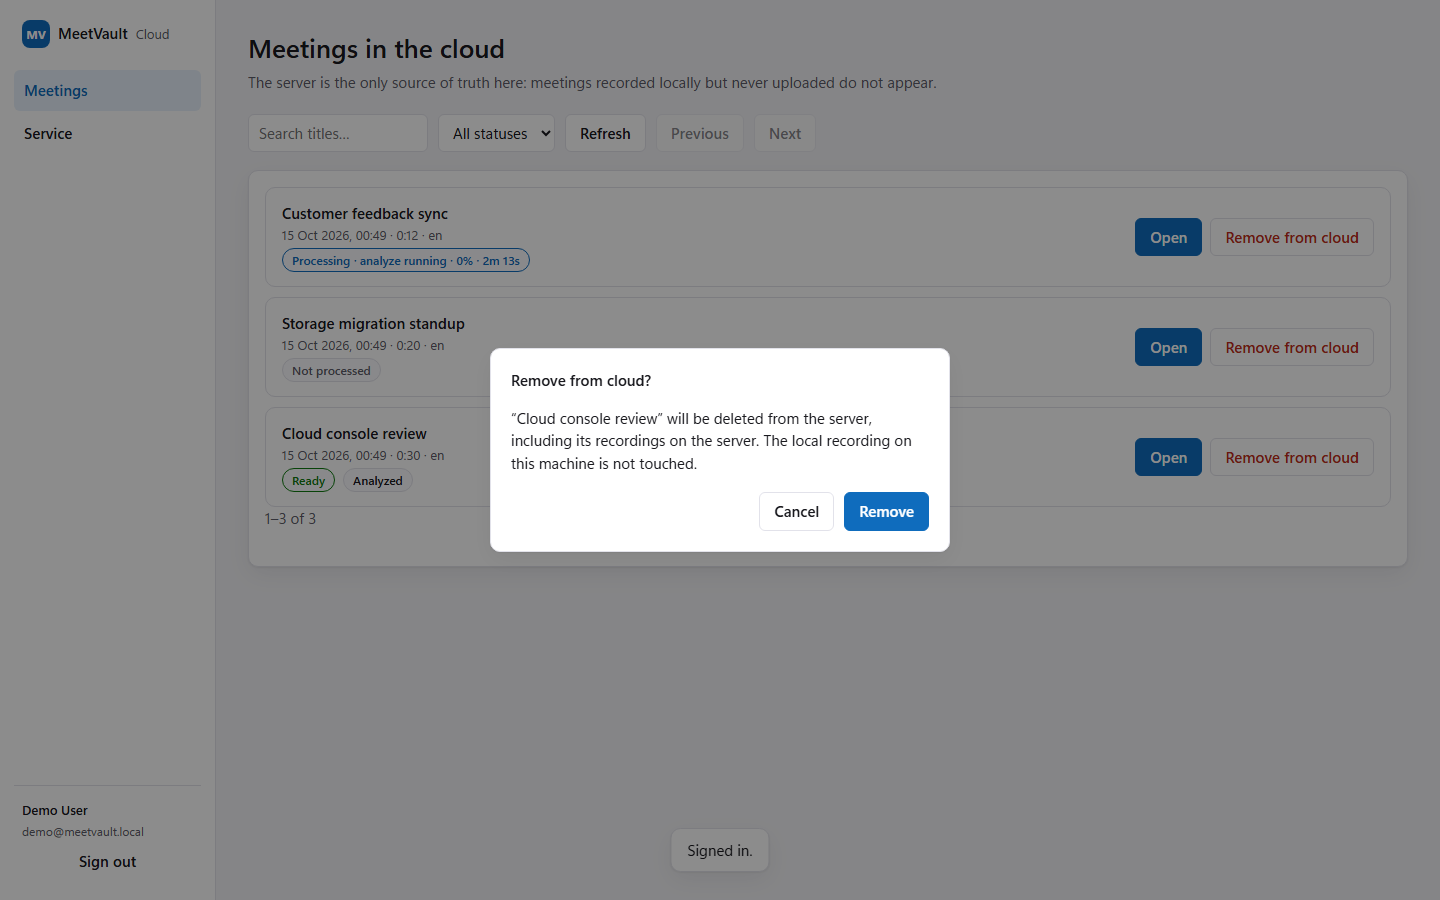
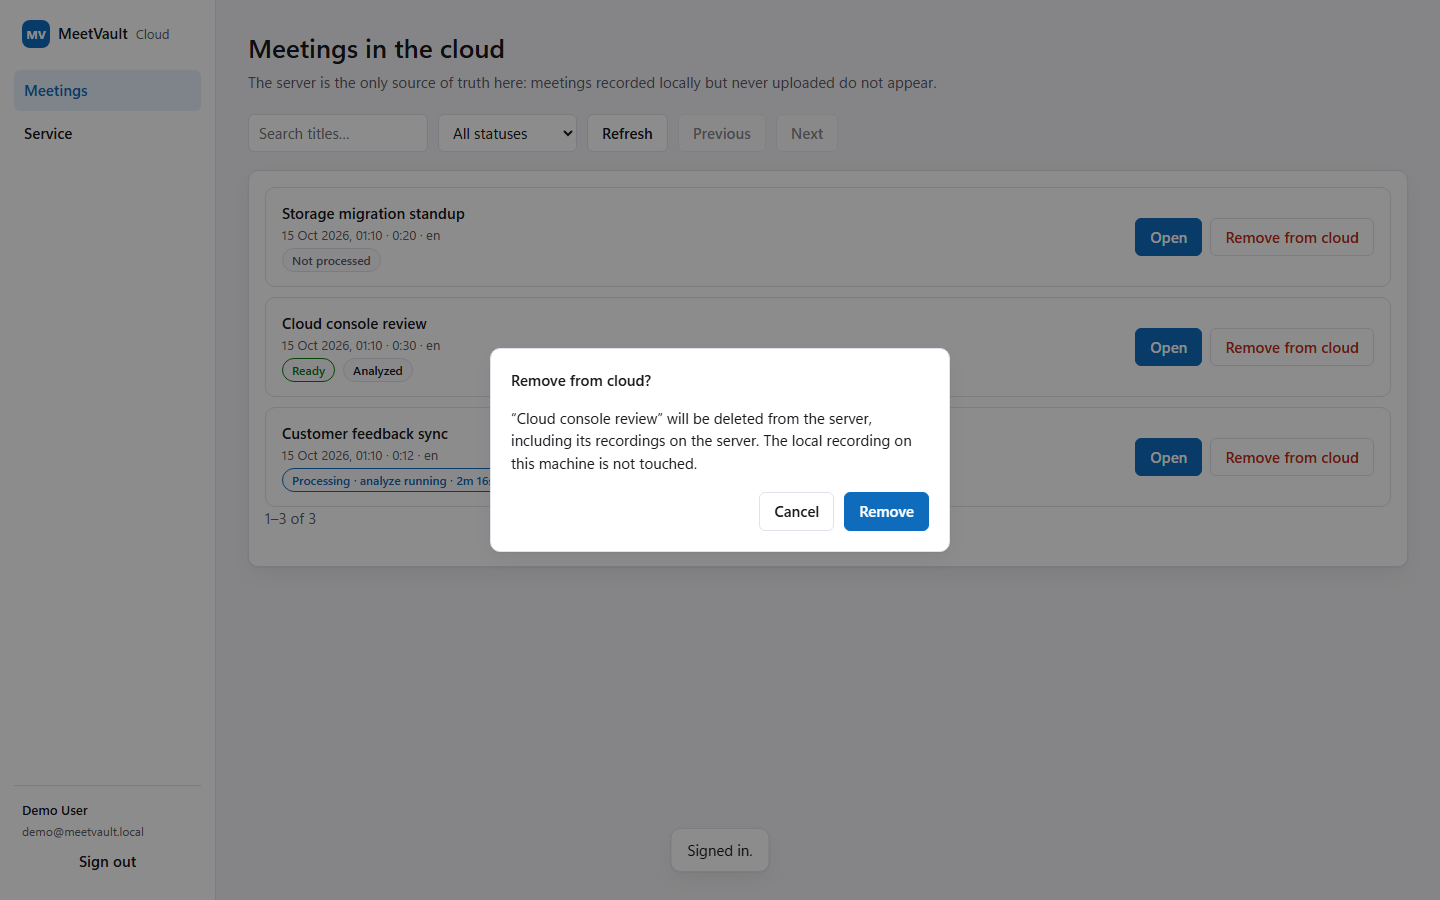
docs(web): the cloud-storage UI audit — three defects, measured before/after

diff --git a/backend/docs/web-report/REPORT.md b/backend/docs/web-report/REPORT.md
@@ -71,8 +71,8 @@ Production is the same image: `docker compose up -d --build` (or the deployed st
 | `screens/09-versions.png` | Versions tab: both transcript versions, the active one marked, activate/delete |
 | `screens/10-jobs.png` | Jobs tab: the pipeline history with state, progress, mock marking, cancel (only while running) and the SSE "Live events" pane |
 | `screens/11-service.png` | Service tab: what this server is actually running (`/v1/system/info` + `/v1/system/providers`) |
-| `screens/12-list-processing.png` | A live processing row: "Processing · analyze running · 0% · 4m 30s" — the elapsed timer counting up |
-| `screens/13-narrow-list.png` | The same list at 420 px: the rail collapses to a top bar, no horizontal overflow |
+| `screens/12-list-processing.png` | A live processing row: "Processing · analyze running · 4m 30s" — the elapsed timer counting up (no misleading 0%) |
+| `screens/13-narrow-list.png` | The same list at 420 px: the rail collapses to a two-row top bar, no horizontal overflow, the account line unbroken |
 
 ## 4. Test evidence
 
@@ -93,7 +93,7 @@ $ cd backend/web && node --test "tests/*.test.mjs"
 ℹ fail 0
 
 $ cd backend/web && MVB_DEMO_URL=http://127.0.0.1:8099 npx playwright test --reporter=line
-57 passed (59.8s)                                     (two projects: narrow 420 px, then desktop 1440 px)
+60 passed (1.0m)                                      (two projects: narrow 420 px, then desktop 1440 px)
 ```
 
 - **Zero console errors** is asserted by every browser spec (`fixtures.js` collects
@@ -185,7 +185,28 @@ $ cd backend/web && MVB_DEMO_URL=http://127.0.0.1:8099 npx playwright test --rep
     the `el()` helper. Fixed with `appendAll()` in `lib/dom.js`, and the a11y spec now walks every
     text node on the list and all seven tabs and fails on a node whose whole content is
     "null"/"undefined" — proven to bite (the mutant fails, the fix passes).
-13. **Documentation drift (reported, not changed):** `backend/README.md` §Status still says
+13. **The mobile header shattered words and split controls.** Below 860 px the rail becomes a row of
+    three *shrinkable* flex children, so at 420 px the account block was crushed to 60 px: the
+    address rendered as three lines (`demo@m` / `eetvault.lo` / `cal`) and **Sign out** broke across
+    three lines, inflating the header to 218 px. Measured before/after with
+    `mail.getClientRects().length` (3 → 1) and the rail height (218 px → 121 px). Fixed by wrapping
+    the rail instead of shrinking it and keeping the identity block on one line (nowrap + ellipsis);
+    `14-responsive` now asserts one line box, an unclipped address, a single-line control, no
+    sideways scroll and a header under 140 px.
+14. **The list claimed "0%" while a job was half done.** `/status.progress` counts *completed steps*,
+    so it sits at 0 for the entire first step: the row read
+    `Processing · analyze running · 0% · 14m 52s` while the running job's own progress was 0.47. A
+    bare 0% tells the user nothing is happening. The percentage now appears only once it means
+    something; the step name and the elapsed timer carry the liveness signal.
+15. **The status filter contradicted the pills it filters.** The filter matches the *raw* meeting
+    status while the pill shows a *derived* state, so `Processing` returned **zero** rows while a row
+    plainly read "Processing", and the `Uploaded` option returned rows labelled "Not processed".
+    Two causes, both fixed: the option is now labelled with the pill's word ("Not processed"), and
+    the fixture no longer invents an unreachable state — the seeded pinned `running` job now also
+    sets the meeting's status to `processing`, exactly as the real pipeline endpoint does. `02-list`
+    asserts the invariant the user experiences: **every filter option returns exactly the rows whose
+    pill it names** (expectation derived from the rendered pills, not hardcoded).
+16. **Documentation drift (reported, not changed):** `backend/README.md` §Status still says
     "157 tests pass" (the suite is 236) and `docs/ACCEPTANCE.md`/`COVERAGE` rows predate the web
     console. Out of scope here; worth a docs sweep.
 

diff --git a/backend/docs/progress/progress_supersanta/PROGRESS_2026-10-15.md b/backend/docs/progress/progress_supersanta/PROGRESS_2026-10-15.md
@@ -22,8 +22,12 @@ Contributor: supersanta (Hermes Agent). Scope: the management web console served
 - `ruff check src tests` → `All checks passed!`; `ruff format --check src tests` → `110 files
   already formatted`.
 - `node --test "tests/*.test.mjs"` (backend/web) → `tests 31, pass 31, fail 0`.
-- `npx playwright test --reporter=line` → green on a fresh seed, two projects (narrow 420 px first,
-  then desktop 1440 px), zero console errors asserted per spec.
+- `npx playwright test --reporter=line` → `60 passed (1.0m)` on a fresh seed, two projects
+  (narrow 420 px first, then desktop 1440 px), zero console errors asserted per spec.
+- Cloud-storage UI audit (the owner's "it's bugged"): three defects found and fixed with specs that
+  failed first — the mobile rail crushed the account block into a shattered address, the list showed
+  a meaningless `0%` while a job was 47% done, and the status filter returned rows whose pill
+  contradicted the option ("Processing" → 0 rows; "Uploaded" → rows labelled "Not processed").
 - Word export verified outside the browser: `docx.Document(...)` → 16 paragraphs, 35 619 bytes.
 - Live smoke: `healthz=200`, `/`=200, `/assets/app.js`=200, `/docs`=200, `/v1/meetings` without a
   token = 401.
